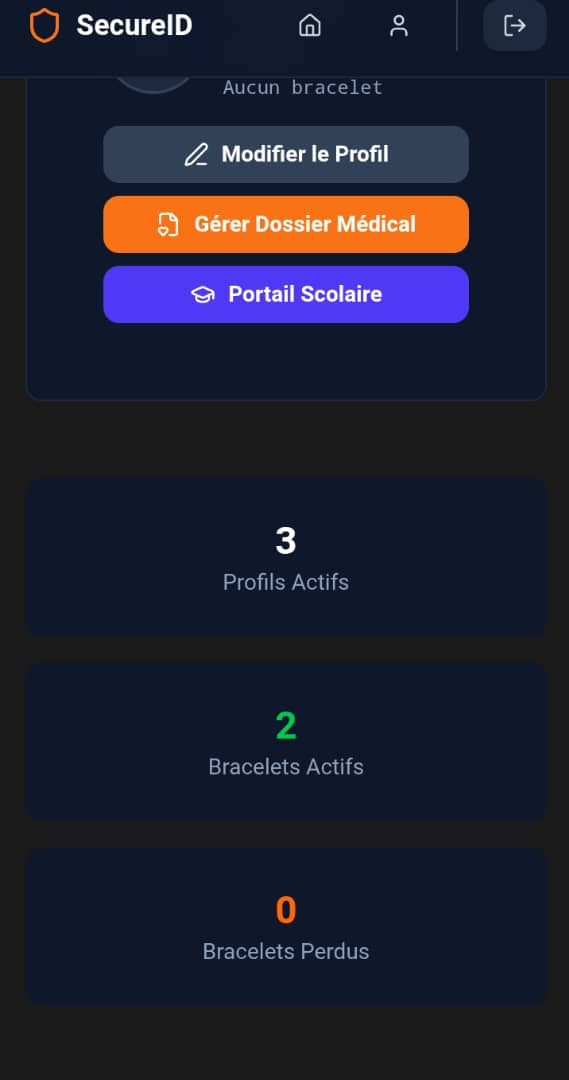
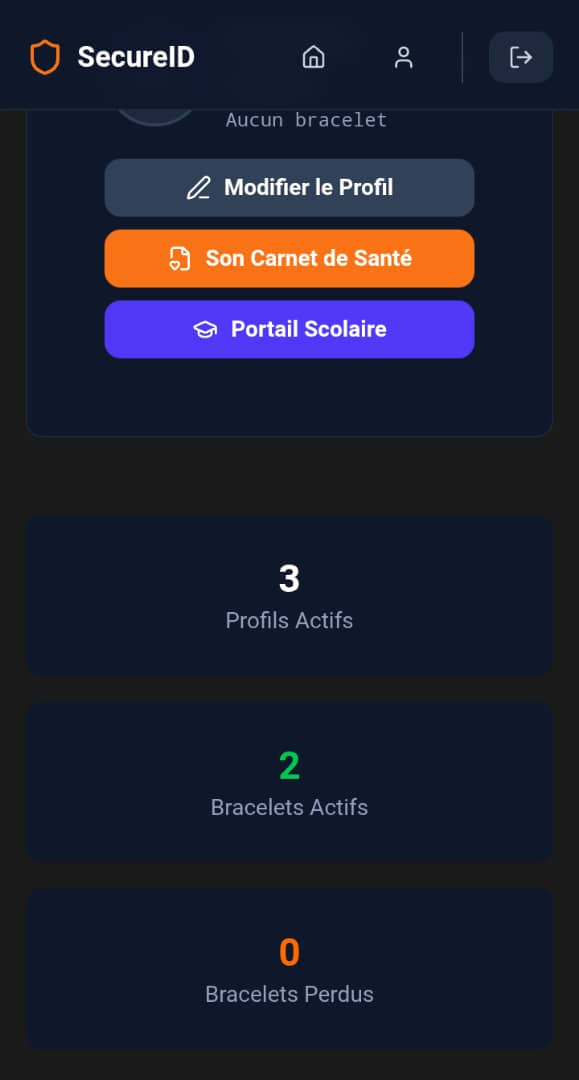
fix: Rétablissement Hero + Nouvelles captures Dashboard
Hero Section:
- Retrait du scale-[0.85] qui cassait l'affichage
- Retour à object-cover normal comme avant
- Image Hero restaurée à son état d'origine

Dashboard Carrousel:
- Mise à jour des captures d'écran
- dashboard-home.jpg (31KB - mise à jour 14:36)
- dashboard-home (2).jpg (23KB - mise à jour 14:36)
- Le carrousel affiche automatiquement les nouvelles versions

🤖 Generated with [Claude Code](https://claude.com/claude-code)

diff --git a/secureid-app/src/app/page.tsx b/secureid-app/src/app/page.tsx
@@ -741,7 +741,7 @@ export default function LandingPage() {
             alt="Mère tenant son enfant dans ses bras"
             fill
             sizes="100vw"
-            className="object-cover scale-[0.85]"
+            className="object-cover"
             priority
             quality={90}
           />
